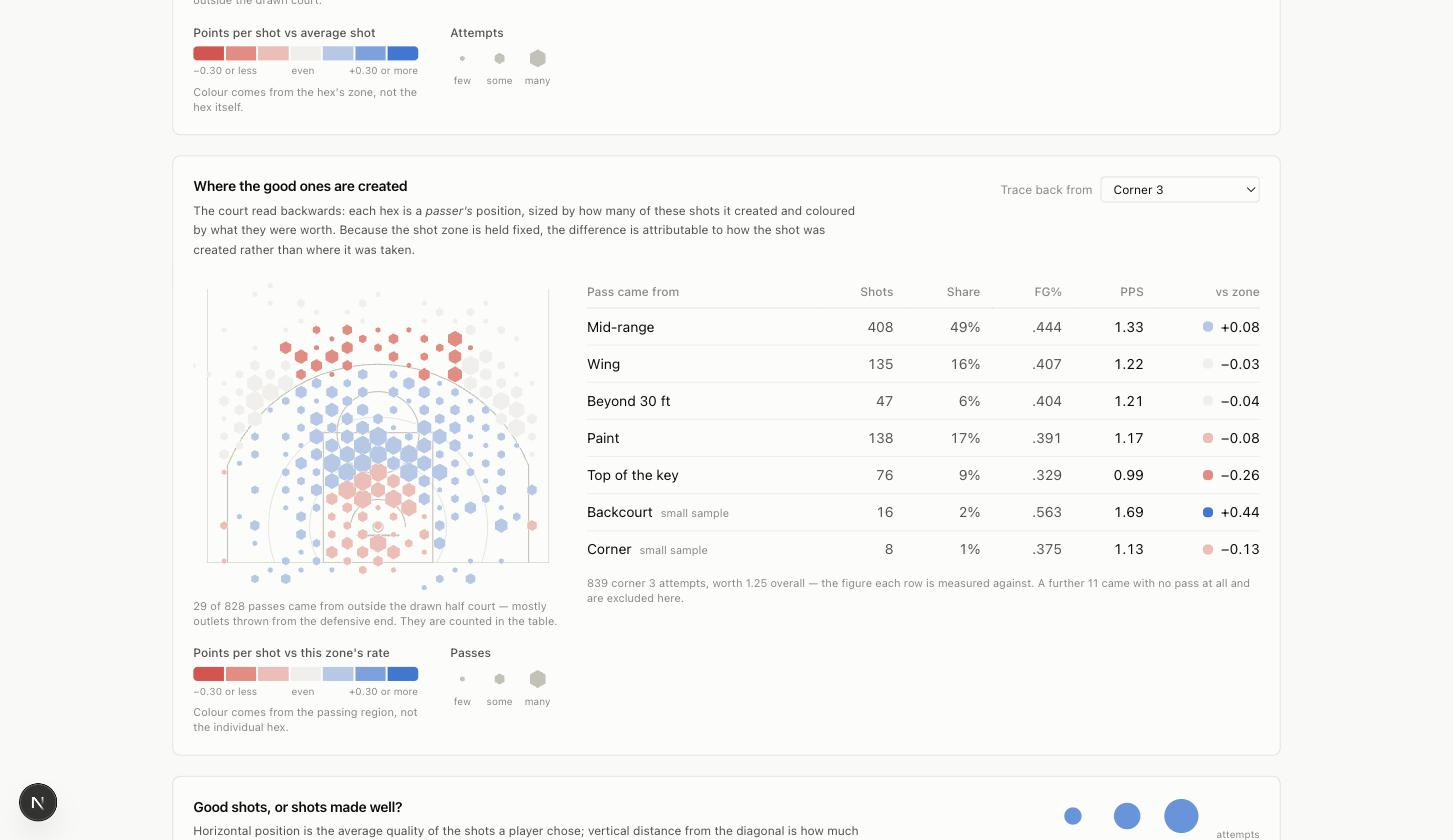
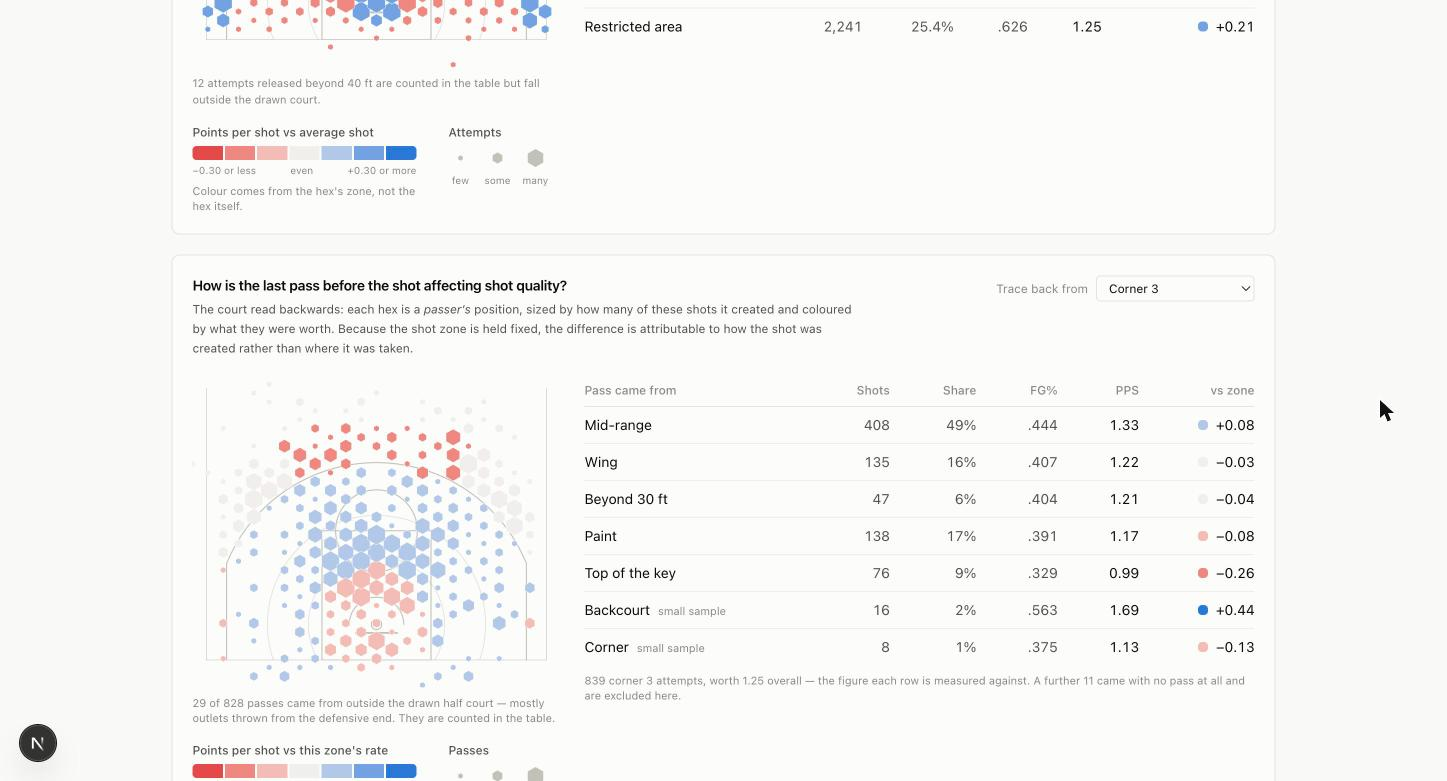
Retitle the pass-origin card
"How is the last pass before the shot affecting shot quality?", replacing
"Where the good ones are created". Applied to the README's matching
heading, the view-behaviour table, and the card's screenshot.

Uses "affecting" rather than "effecting": to effect something is to bring
it into being, while to affect it is to influence it, and the question here
is about influence.

diff --git a/src/components/dashboard.tsx b/src/components/dashboard.tsx
@@ -273,7 +273,7 @@ function DashboardContent({ dataset }: { dataset: ShotDataset }) {
 
           <ViewErrorBoundary name="Pass origins">
             <Card
-              title="Where the good ones are created"
+              title="How is the last pass before the shot affecting shot quality?"
               description={
                 <>
                   The court read backwards: each hex is a{" "}

diff --git a/README.md b/README.md
@@ -102,7 +102,7 @@ per-situation rather than a single season number:
 
 ![Context with a player selected](docs/screenshots/05-context-player.jpg)
 
-### 4. Where the good shots are created
+### 4. How is the last pass before the shot affecting shot quality?
 
 ![Pass origins](docs/screenshots/08-pass-origins.jpg)
 
@@ -206,7 +206,7 @@ Selecting a player does something slightly different in each view, on purpose:
 | Shot map | Filters to them, and switches the colour reference from "an average attempt" to "the team in this zone" |
 | Selection vs making | **Emphasises** them; the others stay for context |
 | Context breakdown | Filters to them and draws the team as a benchmark tick |
-| Where good shots are created | Filters to the passes that fed *his* attempts |
+| Effect of the last pass | Filters to the passes that fed *his* attempts |
 | What to do about it | Switches from roster-level tactics to that player's role and levers |
 
 The scatter is the exception because filtering a twelve-player comparison down to
@@ -557,7 +557,7 @@ Ordered by value per hour:
 1. **Free-throw-adjusted efficiency** as a toggle, if free-throw data can be joined.
    The largest single improvement available.
 2. **Passer identity**, if it can be joined from another source. The pass-origin
-   view shows *where* good shots are created; with identities it would show *who*
+   view shows *where* the last pass came from; with identities it would show *who*
    creates them, which is the question a front office actually asks.
 3. **Game-level trend** — 160 game dates are in the data; nothing currently uses time.
    Cold streaks and in-season changes in shot diet are invisible today.
